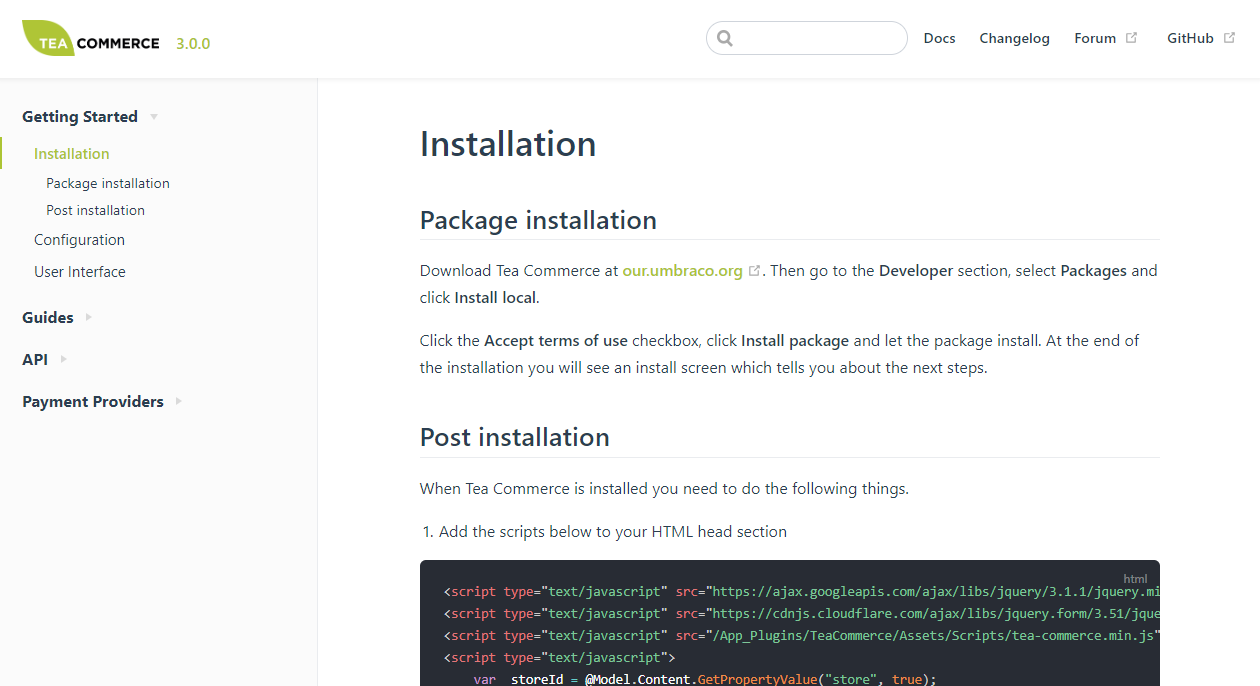
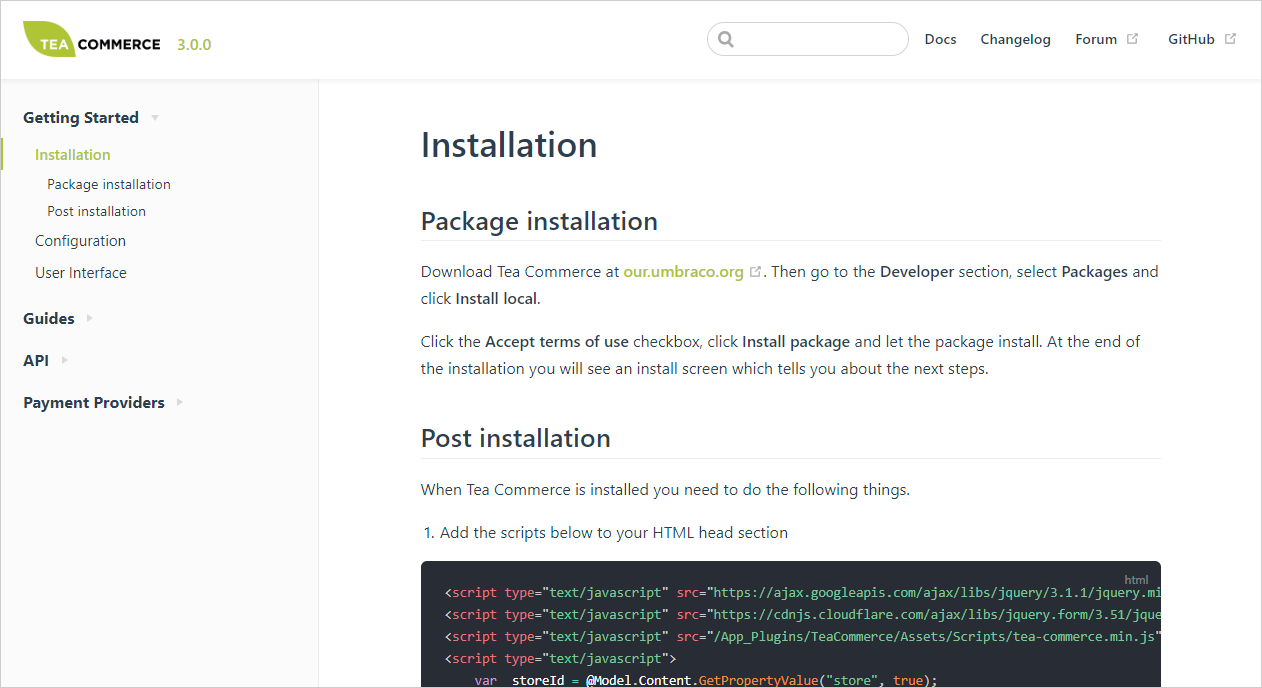
Added screenshot border

diff --git a/README.md b/README.md
@@ -8,9 +8,7 @@ This repository contains the raw source files for the documentation of the Umbra
 
 </div>
 
-<div style="border: 1px solid #ccc;">
-    <img src="screenshot.png" alt="Screenshot" />
-</div>
+<img src="screenshot.png" alt="Screenshot" />
 
 ## Contributing
 
